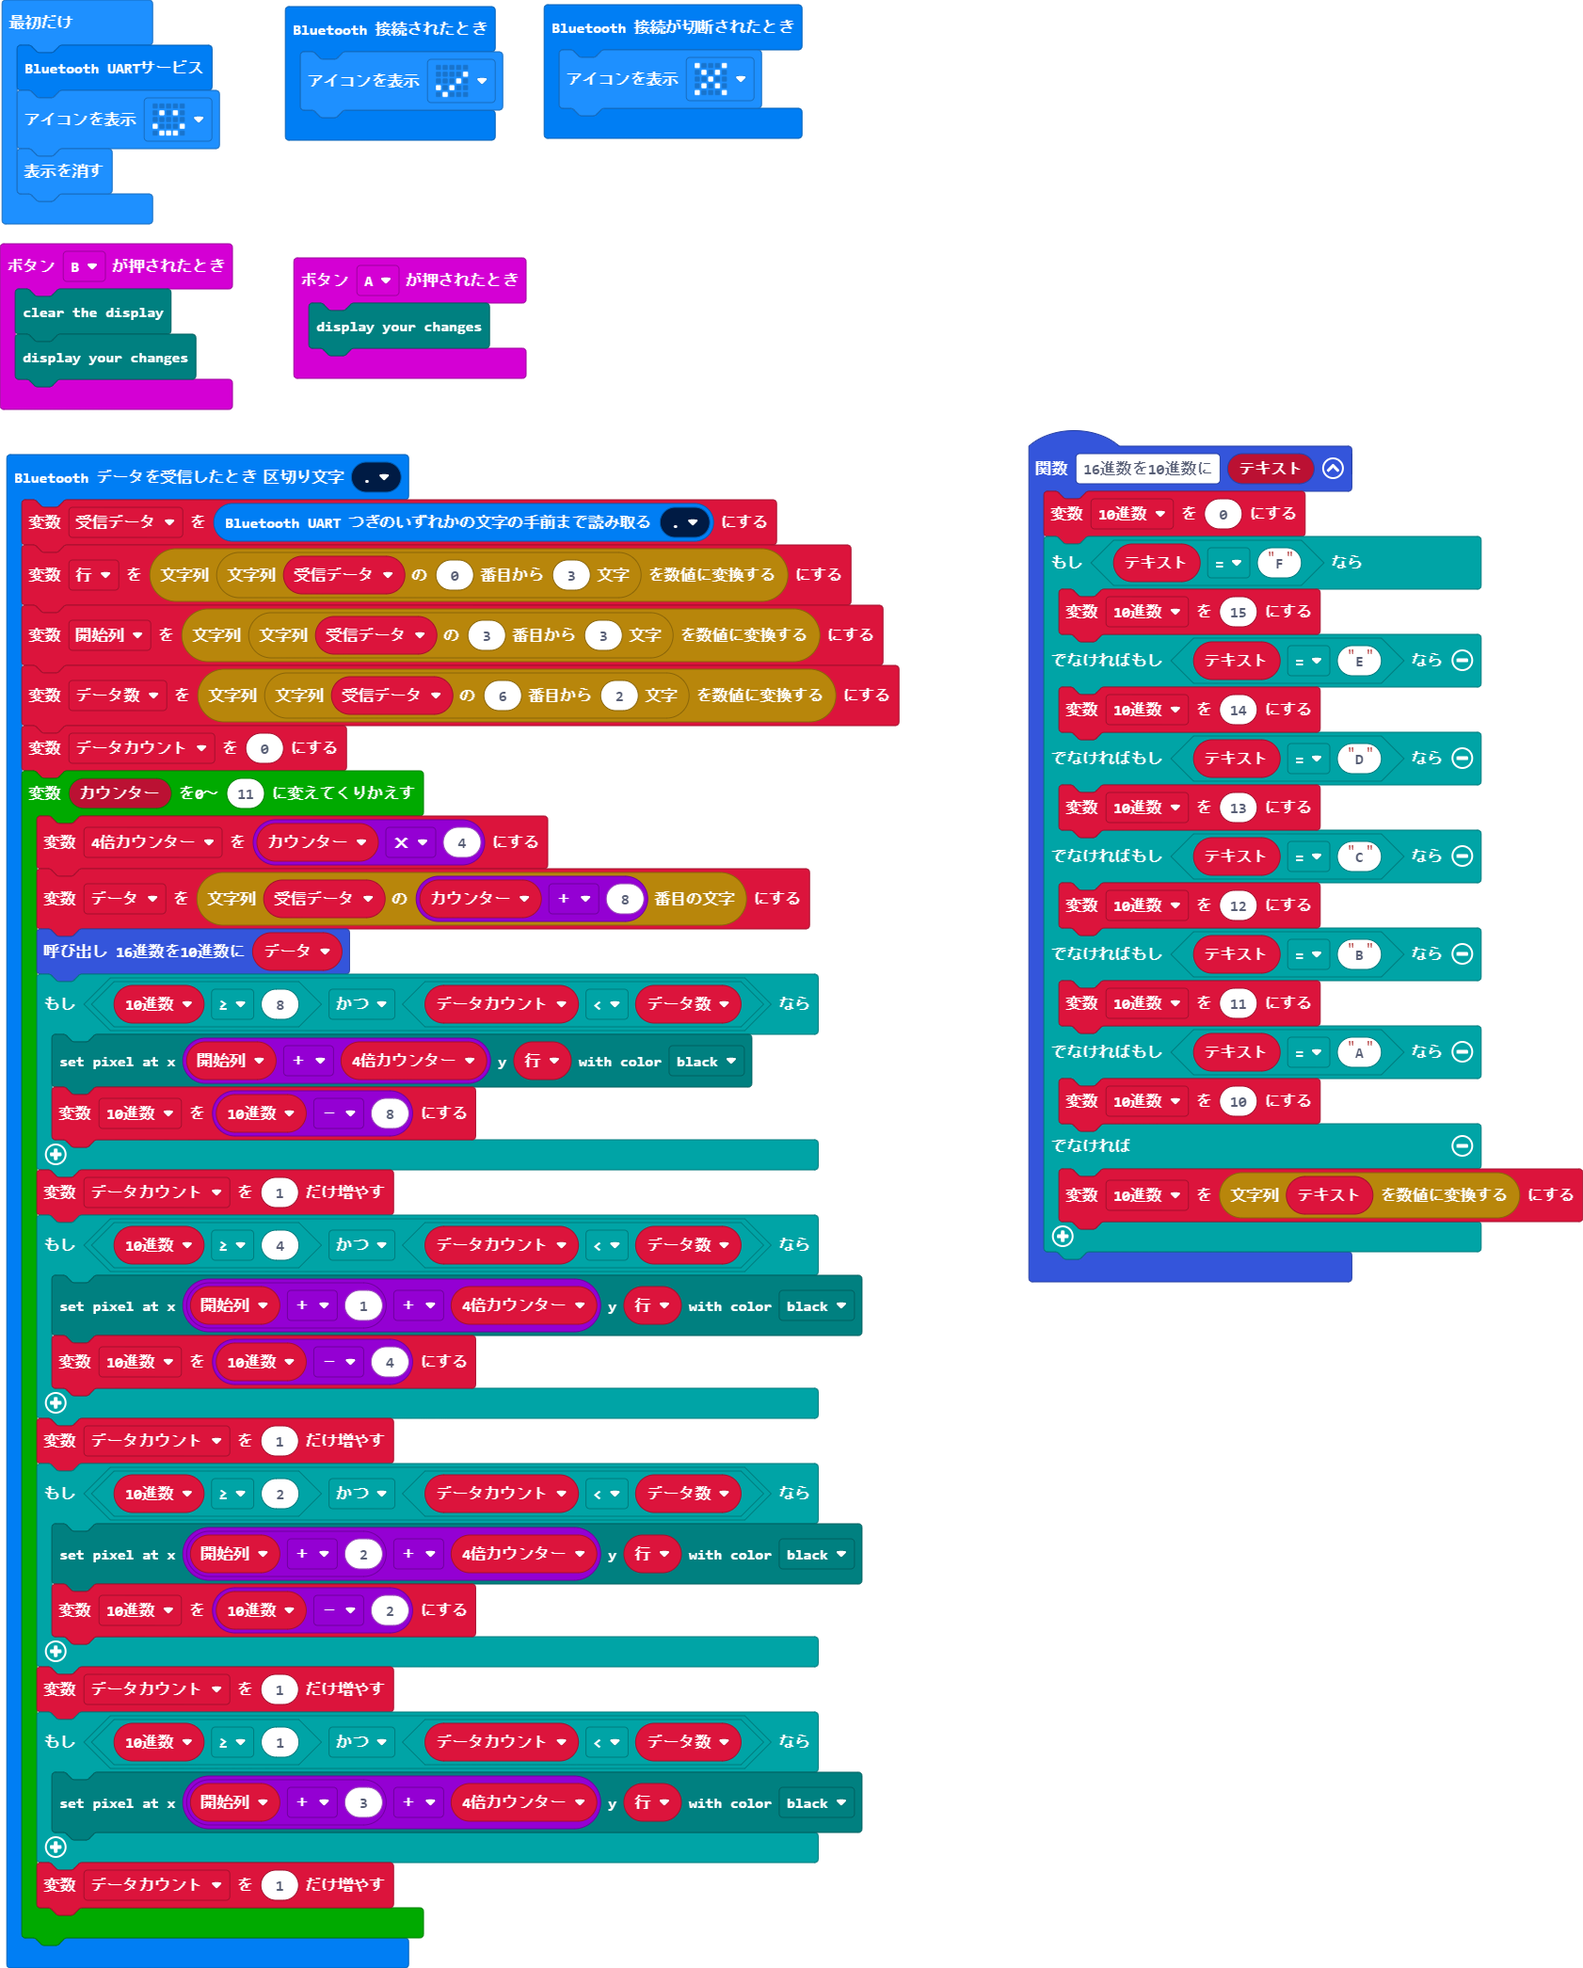
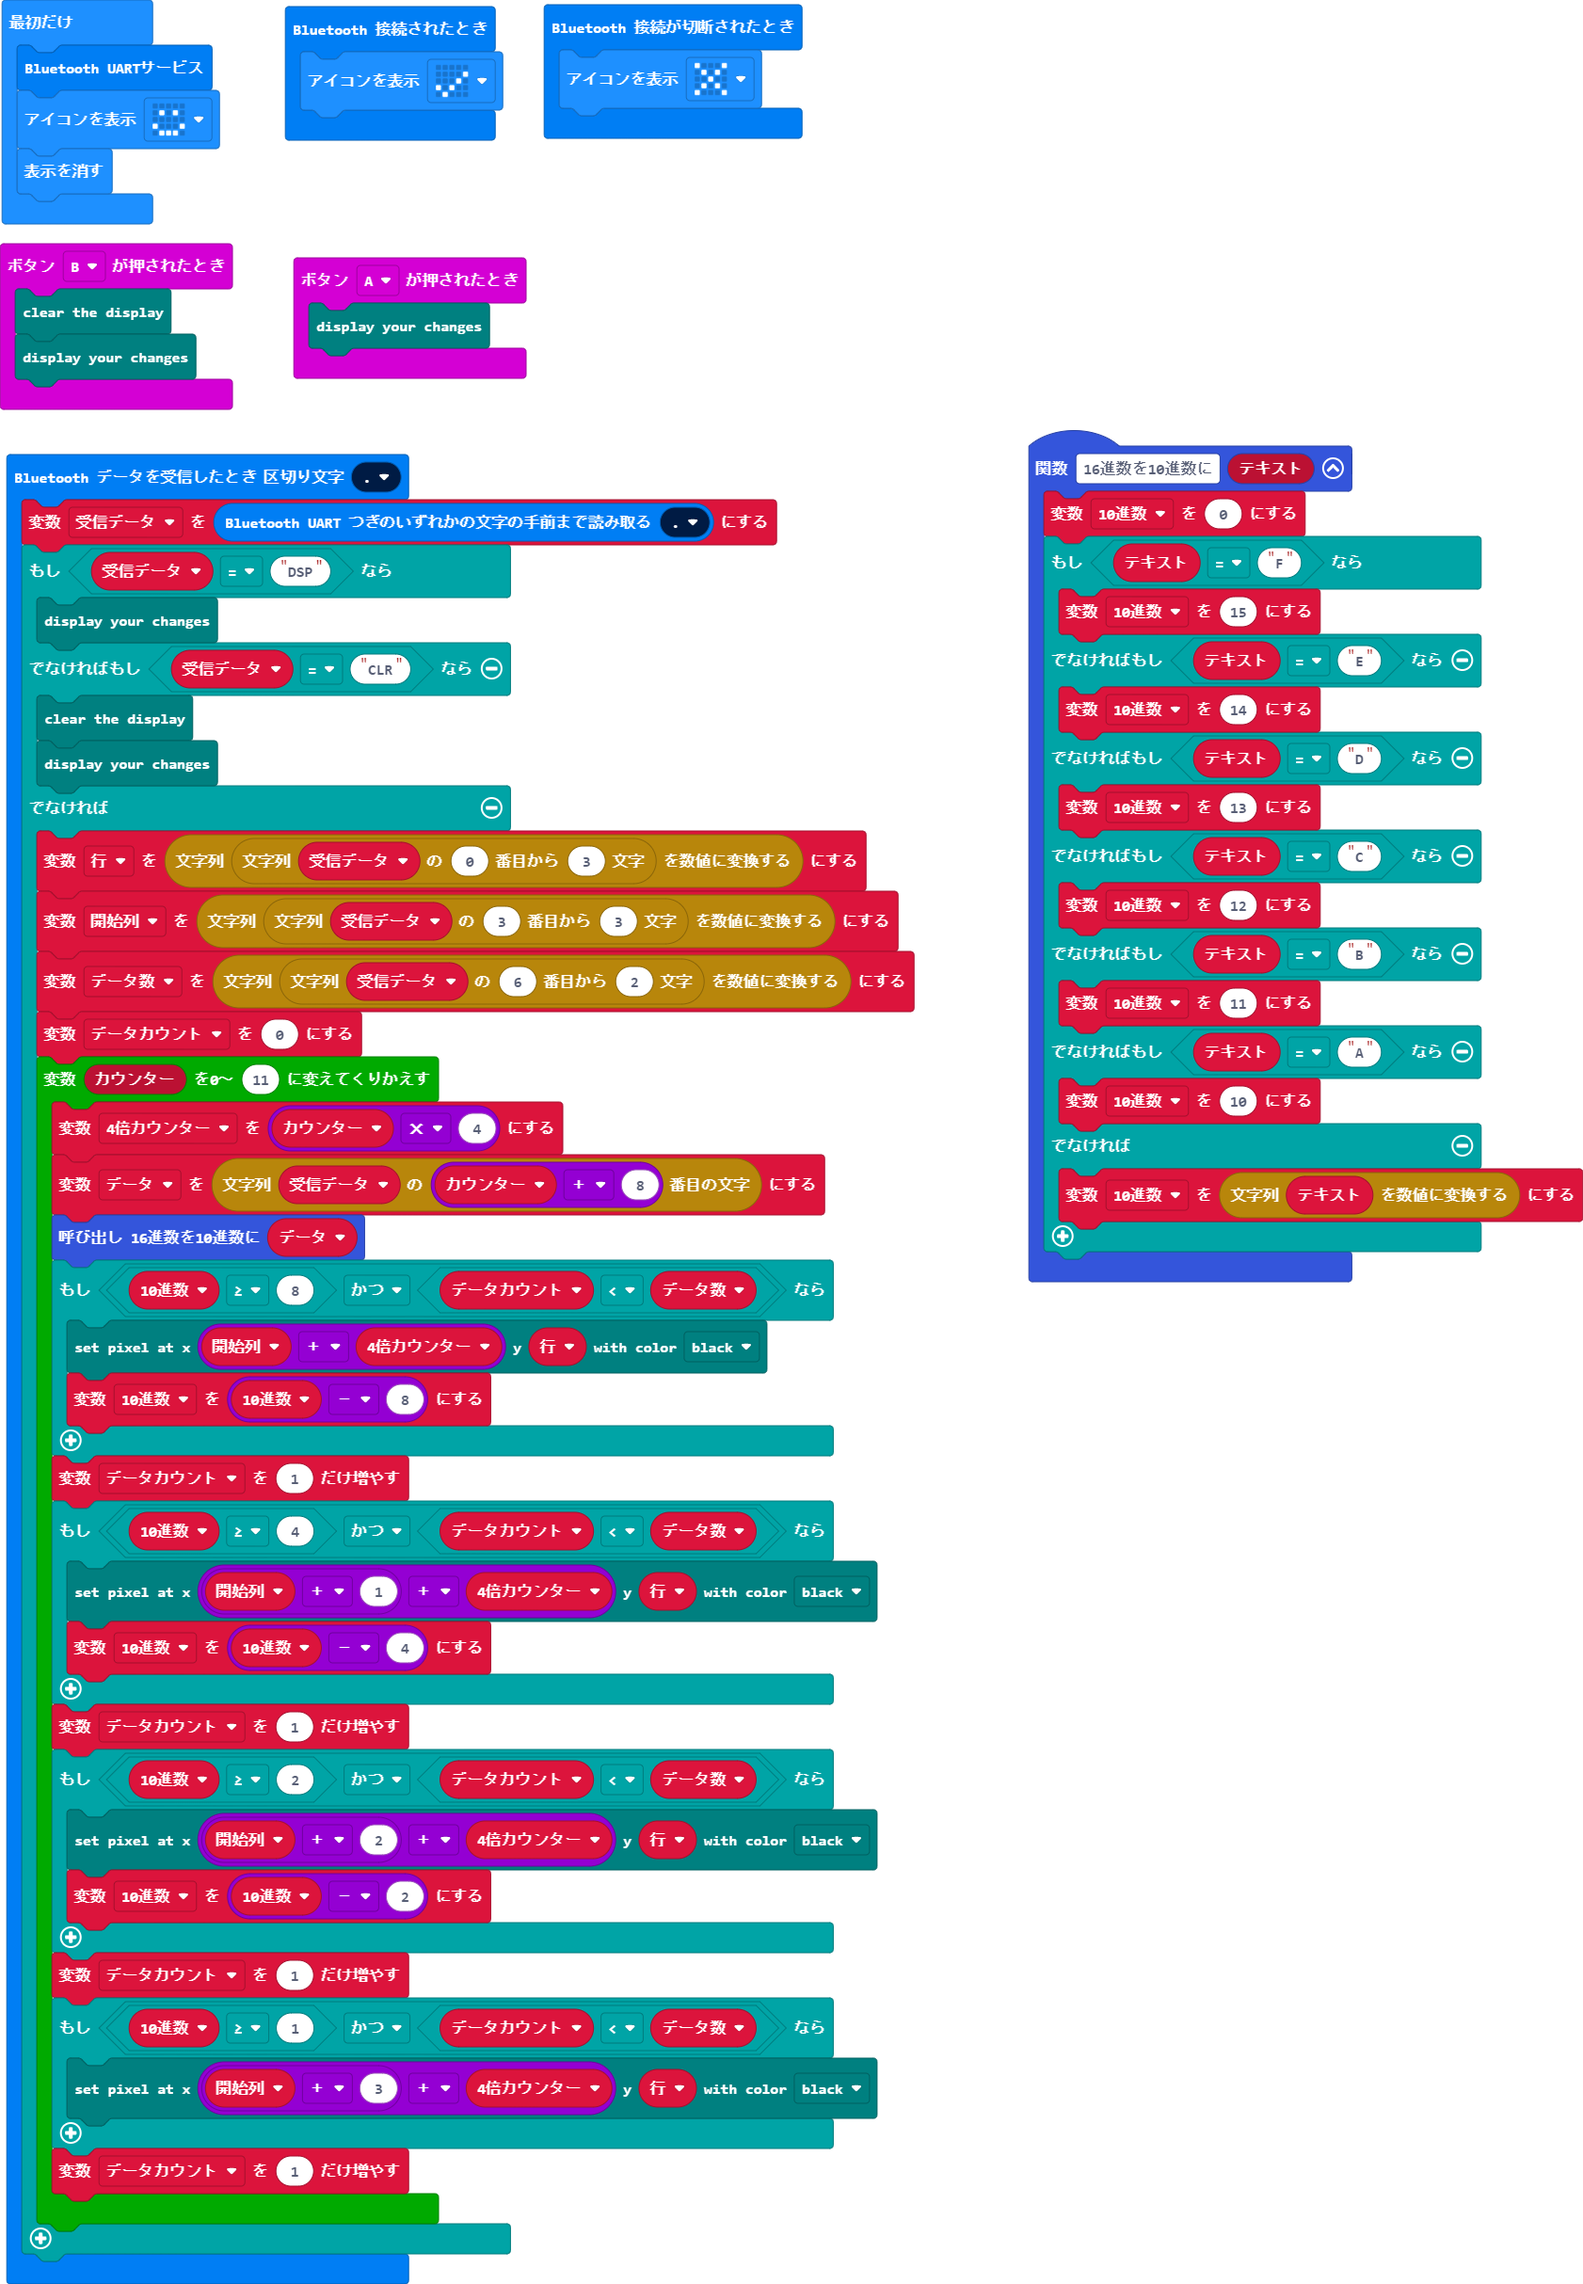
更新 main.blocks, main.ts

diff --git a/main.ts b/main.ts
@@ -9,33 +9,40 @@ input.onButtonPressed(Button.A, function () {
 })
 bluetooth.onUartDataReceived(serial.delimiters(Delimiters.Fullstop), function () {
     受信データ = bluetooth.uartReadUntil(serial.delimiters(Delimiters.Fullstop))
-    行 = parseFloat(受信データ.substr(0, 3))
-    開始列 = parseFloat(受信データ.substr(3, 3))
-    データ数 = parseFloat(受信データ.substr(6, 2))
-    データカウント = 0
-    for (let カウンター = 0; カウンター <= 11; カウンター++) {
-        _4倍カウンター = カウンター * 4
-        データ = 受信データ.charAt(カウンター + 8)
-        _16進数を10進数に(データ)
-        if (_10進数 >= 8 && データカウント < データ数) {
-            inkybit.setPixel(開始列 + _4倍カウンター, 行, inkybit.Color.Black)
-            _10進数 = _10進数 - 8
+    if (受信データ == "DSP") {
+        inkybit.show()
+    } else if (受信データ == "CLR") {
+        inkybit.clear()
+        inkybit.show()
+    } else {
+        行 = parseFloat(受信データ.substr(0, 3))
+        開始列 = parseFloat(受信データ.substr(3, 3))
+        データ数 = parseFloat(受信データ.substr(6, 2))
+        データカウント = 0
+        for (let カウンター = 0; カウンター <= 11; カウンター++) {
+            _4倍カウンター = カウンター * 4
+            データ = 受信データ.charAt(カウンター + 8)
+            _16進数を10進数に(データ)
+            if (_10進数 >= 8 && データカウント < データ数) {
+                inkybit.setPixel(開始列 + _4倍カウンター, 行, inkybit.Color.Black)
+                _10進数 = _10進数 - 8
+            }
+            データカウント += 1
+            if (_10進数 >= 4 && データカウント < データ数) {
+                inkybit.setPixel(開始列 + 1 + _4倍カウンター, 行, inkybit.Color.Black)
+                _10進数 = _10進数 - 4
+            }
+            データカウント += 1
+            if (_10進数 >= 2 && データカウント < データ数) {
+                inkybit.setPixel(開始列 + 2 + _4倍カウンター, 行, inkybit.Color.Black)
+                _10進数 = _10進数 - 2
+            }
+            データカウント += 1
+            if (_10進数 >= 1 && データカウント < データ数) {
+                inkybit.setPixel(開始列 + 3 + _4倍カウンター, 行, inkybit.Color.Black)
+            }
+            データカウント += 1
         }
-        データカウント += 1
-        if (_10進数 >= 4 && データカウント < データ数) {
-            inkybit.setPixel(開始列 + 1 + _4倍カウンター, 行, inkybit.Color.Black)
-            _10進数 = _10進数 - 4
-        }
-        データカウント += 1
-        if (_10進数 >= 2 && データカウント < データ数) {
-            inkybit.setPixel(開始列 + 2 + _4倍カウンター, 行, inkybit.Color.Black)
-            _10進数 = _10進数 - 2
-        }
-        データカウント += 1
-        if (_10進数 >= 1 && データカウント < データ数) {
-            inkybit.setPixel(開始列 + 3 + _4倍カウンター, 行, inkybit.Color.Black)
-        }
-        データカウント += 1
     }
 })
 input.onButtonPressed(Button.B, function () {
